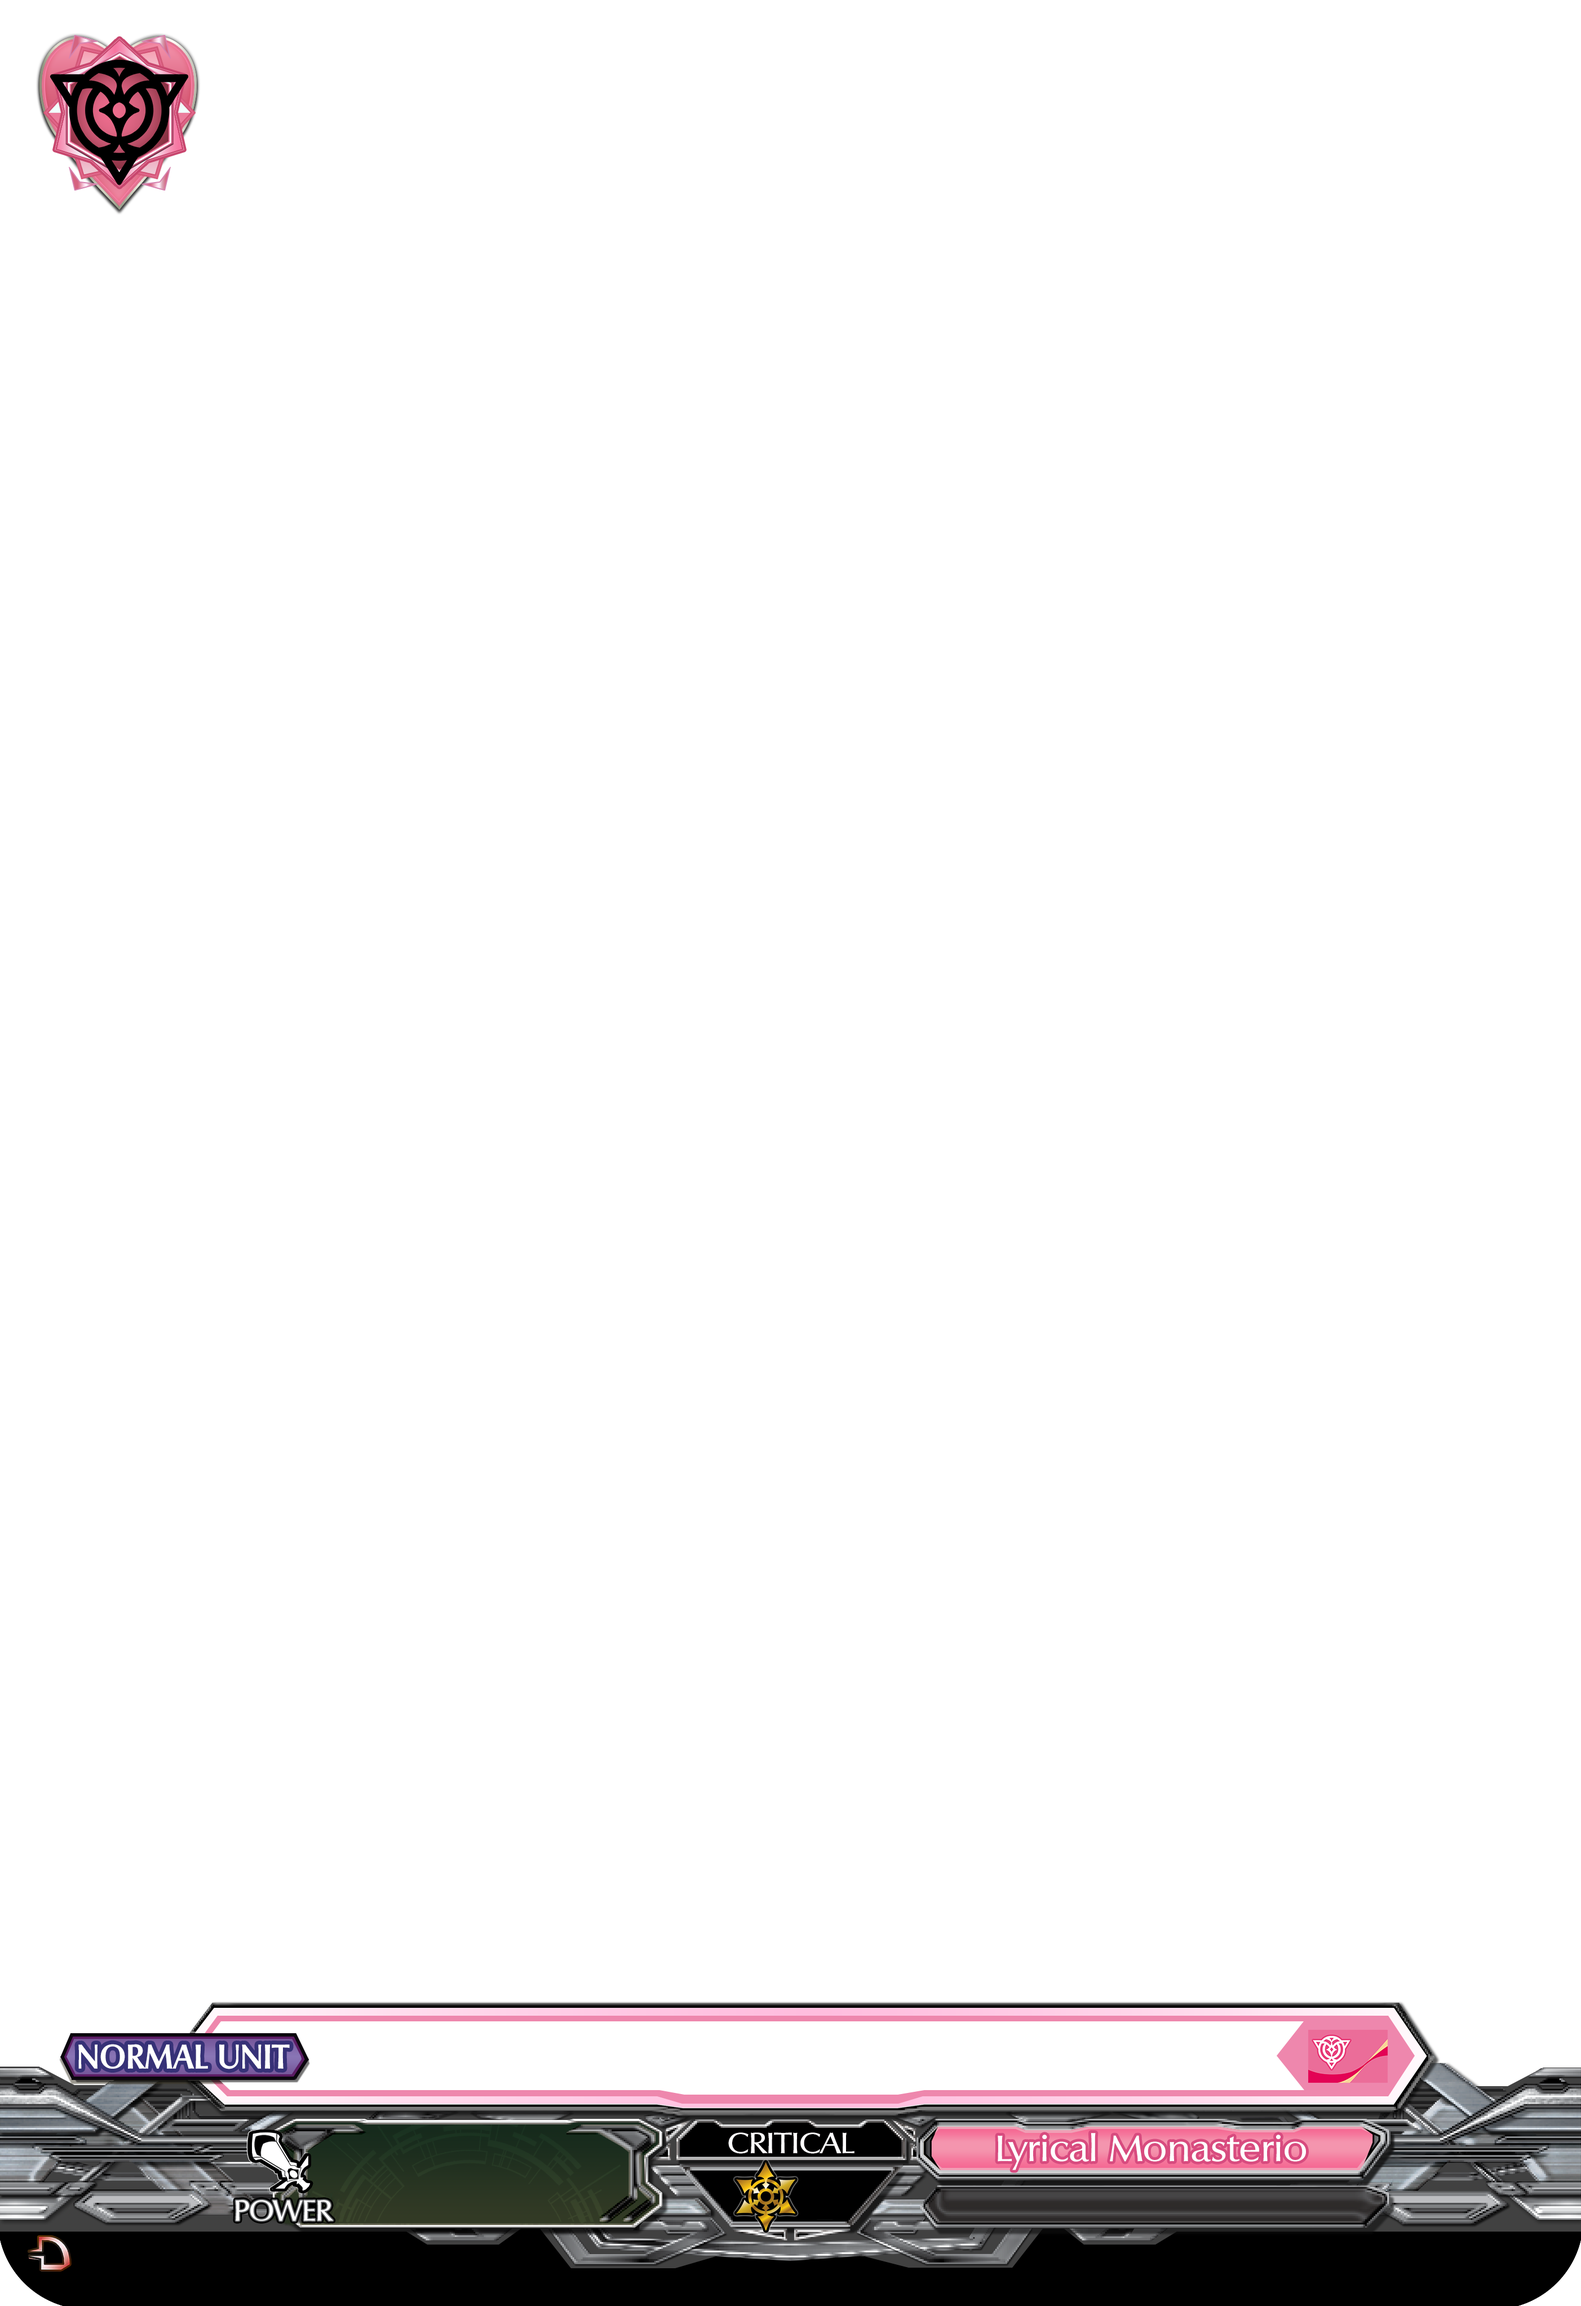
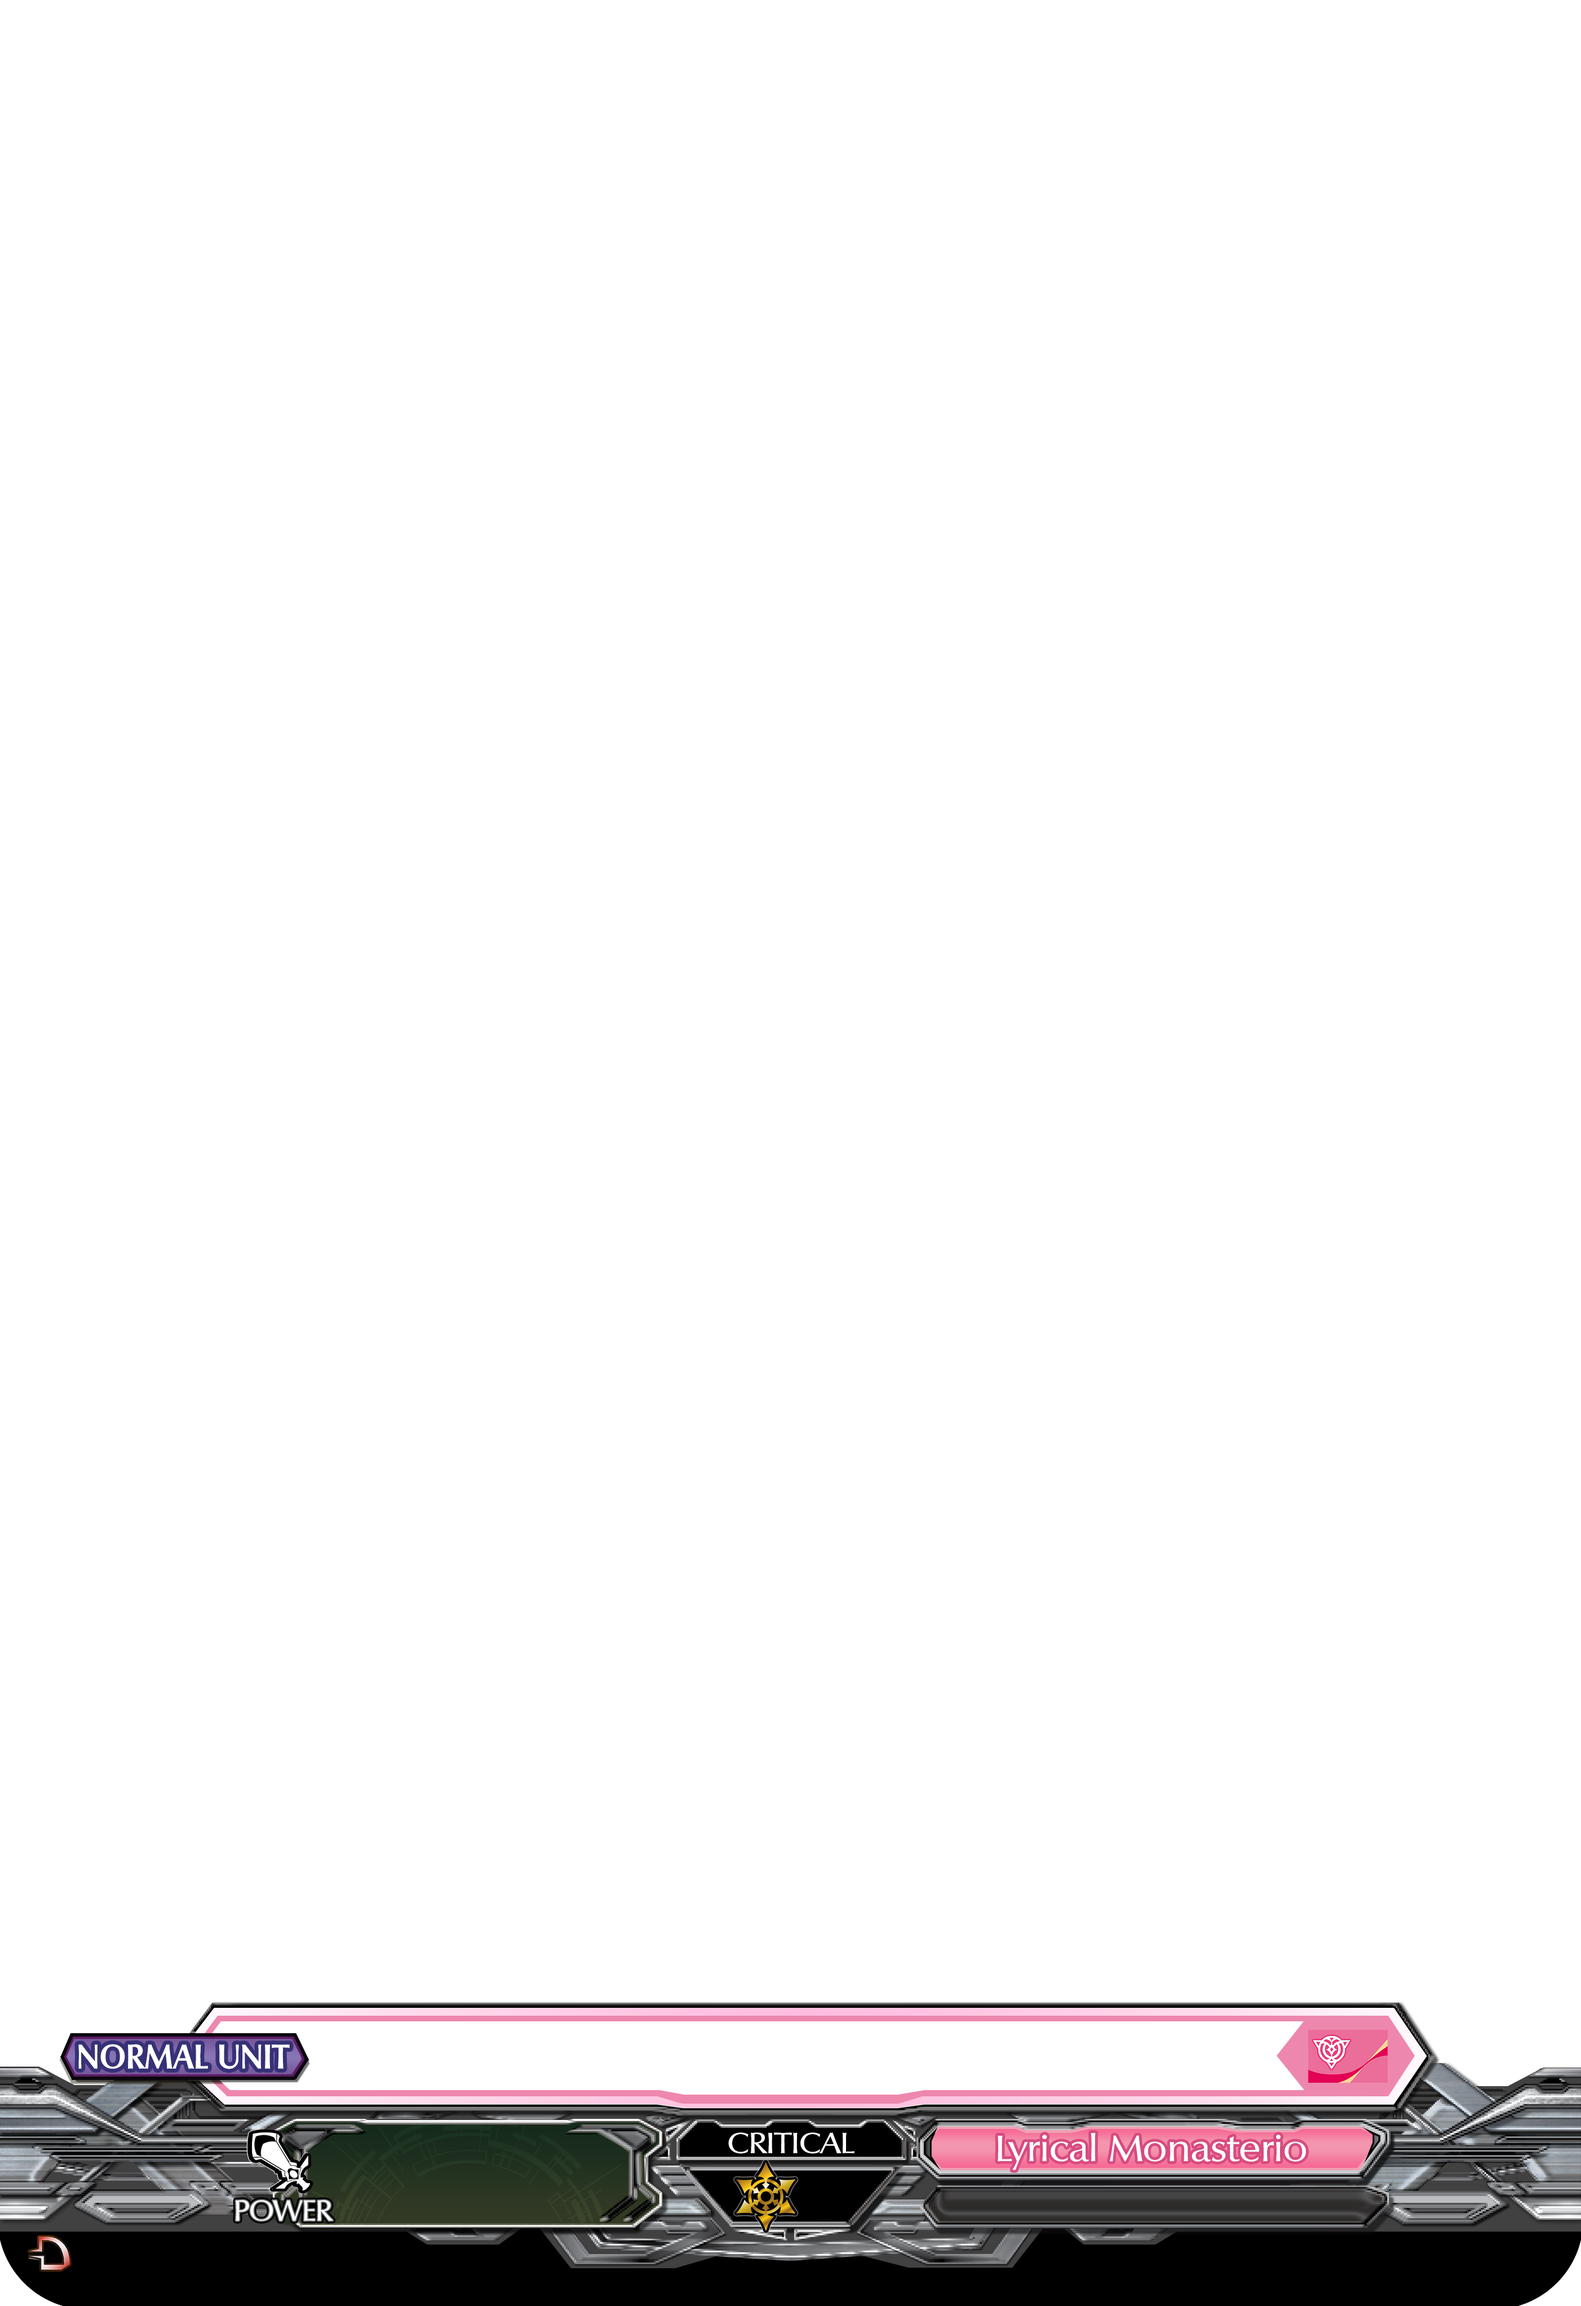
Dual Grades

Changed region(s): [[0.0, 0.0, 0.1241, 0.0931]]

diff --git a/script/list.js b/script/list.js
@@ -400,17 +400,68 @@ window.addEventListener('DOMContentLoaded', function() {
   var type = document.getElementById('cts');
   var grade = document.getElementById('g');
   var image = document.getElementById('si');
-  var image1 = document.getElementById('gs'); 
+  var image1 = document.getElementById('gs');
+  var image11 = document.getElementById('gs2');  
   var image2 = document.getElementById('si1');
+  var bg1 = document.getElementById('ficon'); 
+  var bg2 = document.getElementById('sicon');
   var csk = document.getElementById('csk');
   var ask = document.getElementById('ask');
+  var glitter = document.getElementById('glitter');
+  var encounter = document.getElementById('enc');
+  var nation = document.getElementById('ns');
+  var dual = document.getElementById('dual');
+  var fselect = document.getElementById('fns');
+  var sselect = document.getElementById('sns');
+  var gfimage = document.getElementById('dnfgrade');
+  var gsimage = document.getElementById('dnsgrade');
   grade.addEventListener('change', update);
   csk.addEventListener('change', update);
   ask.addEventListener('change', update);
+  glitter.addEventListener('change', update);
+  encounter.addEventListener('change', update());
+  nation.addEventListener('change', update());
+  dual.addEventListener('change', update());
+
+  
 
   function update() {
     var select = grade.value;
+
+
+
     var _src_ = "assets/grade" + select + ".png";
+
+    if (glitter.checked && !encounter.checked && !dual.checked){
+      _src_ = `assets/dual nation/number/${nation.value}${select}.png`
+      image11.src = "assets/none_.png"
+      bg1.src = `assets/grade/glitter.png`
+      bg2.src = "assets/none_.png"
+
+    }
+    else if(dual.checked && glitter.checked)
+    {
+      _src_ = `assets/dual nation/number/f${fselect.value}${select}.png`
+      image11.src = `assets/dual nation/number/s${sselect.value}${select}.png`
+      bg1.src = `assets/grade/glitter.png`
+      bg2.src = "assets/none_.png"
+      gfimage.src = "assets/none_.png"
+      gsimage.src = "assets/none_.png"
+      
+    }
+    else if(dual.checked)
+    {
+      bg1.src = "assets/none_.png"
+      _src_ = `assets/dual nation/number/nonGlitter/f${fselect.value}${select}.png`
+      image11.src = `assets/dual nation/number/s${sselect.value}${select}.png`
+      gfimage.src = `assets/dual nation/grade/f${fselect.value}.png`
+      gsimage.src = `assets/dual nation/grade/s${sselect.value}.png`
+    }
+    else{
+      bg1.src = `assets/grade/${nation.value}.png`
+      bg2.src = "assets/none_.png"
+    }
+
     var src_ = "assets/" + csk.value + ".png";
     var src__ = "assets/" + ask.value + ".png";
     var ty = type.value;

diff --git a/index.html b/index.html
@@ -36,12 +36,19 @@
         <img class="dnfgrade" id='dnfgrade' src="assets/dual nation/grade/fde.png">
         <img class="dnsgrade" id='dnsgrade' src="assets/dual nation/grade/sde.png">
         <img class="encounter-clan" id='encounter-clan' src="assets/kgr.png">
+
+        <img class="frame" id="ficon" src="assets/grade/nl.png">
+        <img class="frame" id="sicon" src="assets/none_.png">
+
         <img class="gs" id='gs' src="assets/grade_0.png">
+        <img class="gs" id='gs2' src="assets/none_.png">
+
         <img class="si" id='si1' src="assets/none_.png">
         <img class="si" id='si' src="assets/bts.png">
         <img class="crs" id='crs' src="assets/c_1_.png">
         <img class="sh" id='sh' src="assets/none_.png">
         <img class="trigger" id="trigger" src="assets/none_.png">
+        
         
         <img class="flavorFrame" id="flavorFrame" src="assets/none_.png">
         
@@ -267,7 +274,7 @@
             <option class="dre"value="kgr">Kagero</option>
             <option class="dre" value="nrk">Narukami</option>
             <option class="dre" value="nub">Nubatama</option>
-            <option class="dre" value="mrk">Murakomo</option>
+            <option class="dre" value="mrk">Murakumo</option>
             <option class="dre" value="tcz">Tachikaze</option>
             <option class="uns" value="rpd">Royal Paladin</option>
             <option class="uns" value="spd">Shadow Paladin</option>

diff --git a/script/lfb.js b/script/lfb.js
@@ -104,9 +104,6 @@ ipillust.addEventListener('input', function() {
 });
 
 ipflavor.addEventListener('input', function() {
-  
-  
-
   var list = []
   for (i of ipflavor.value.split('\n')){
     list.push(i)
